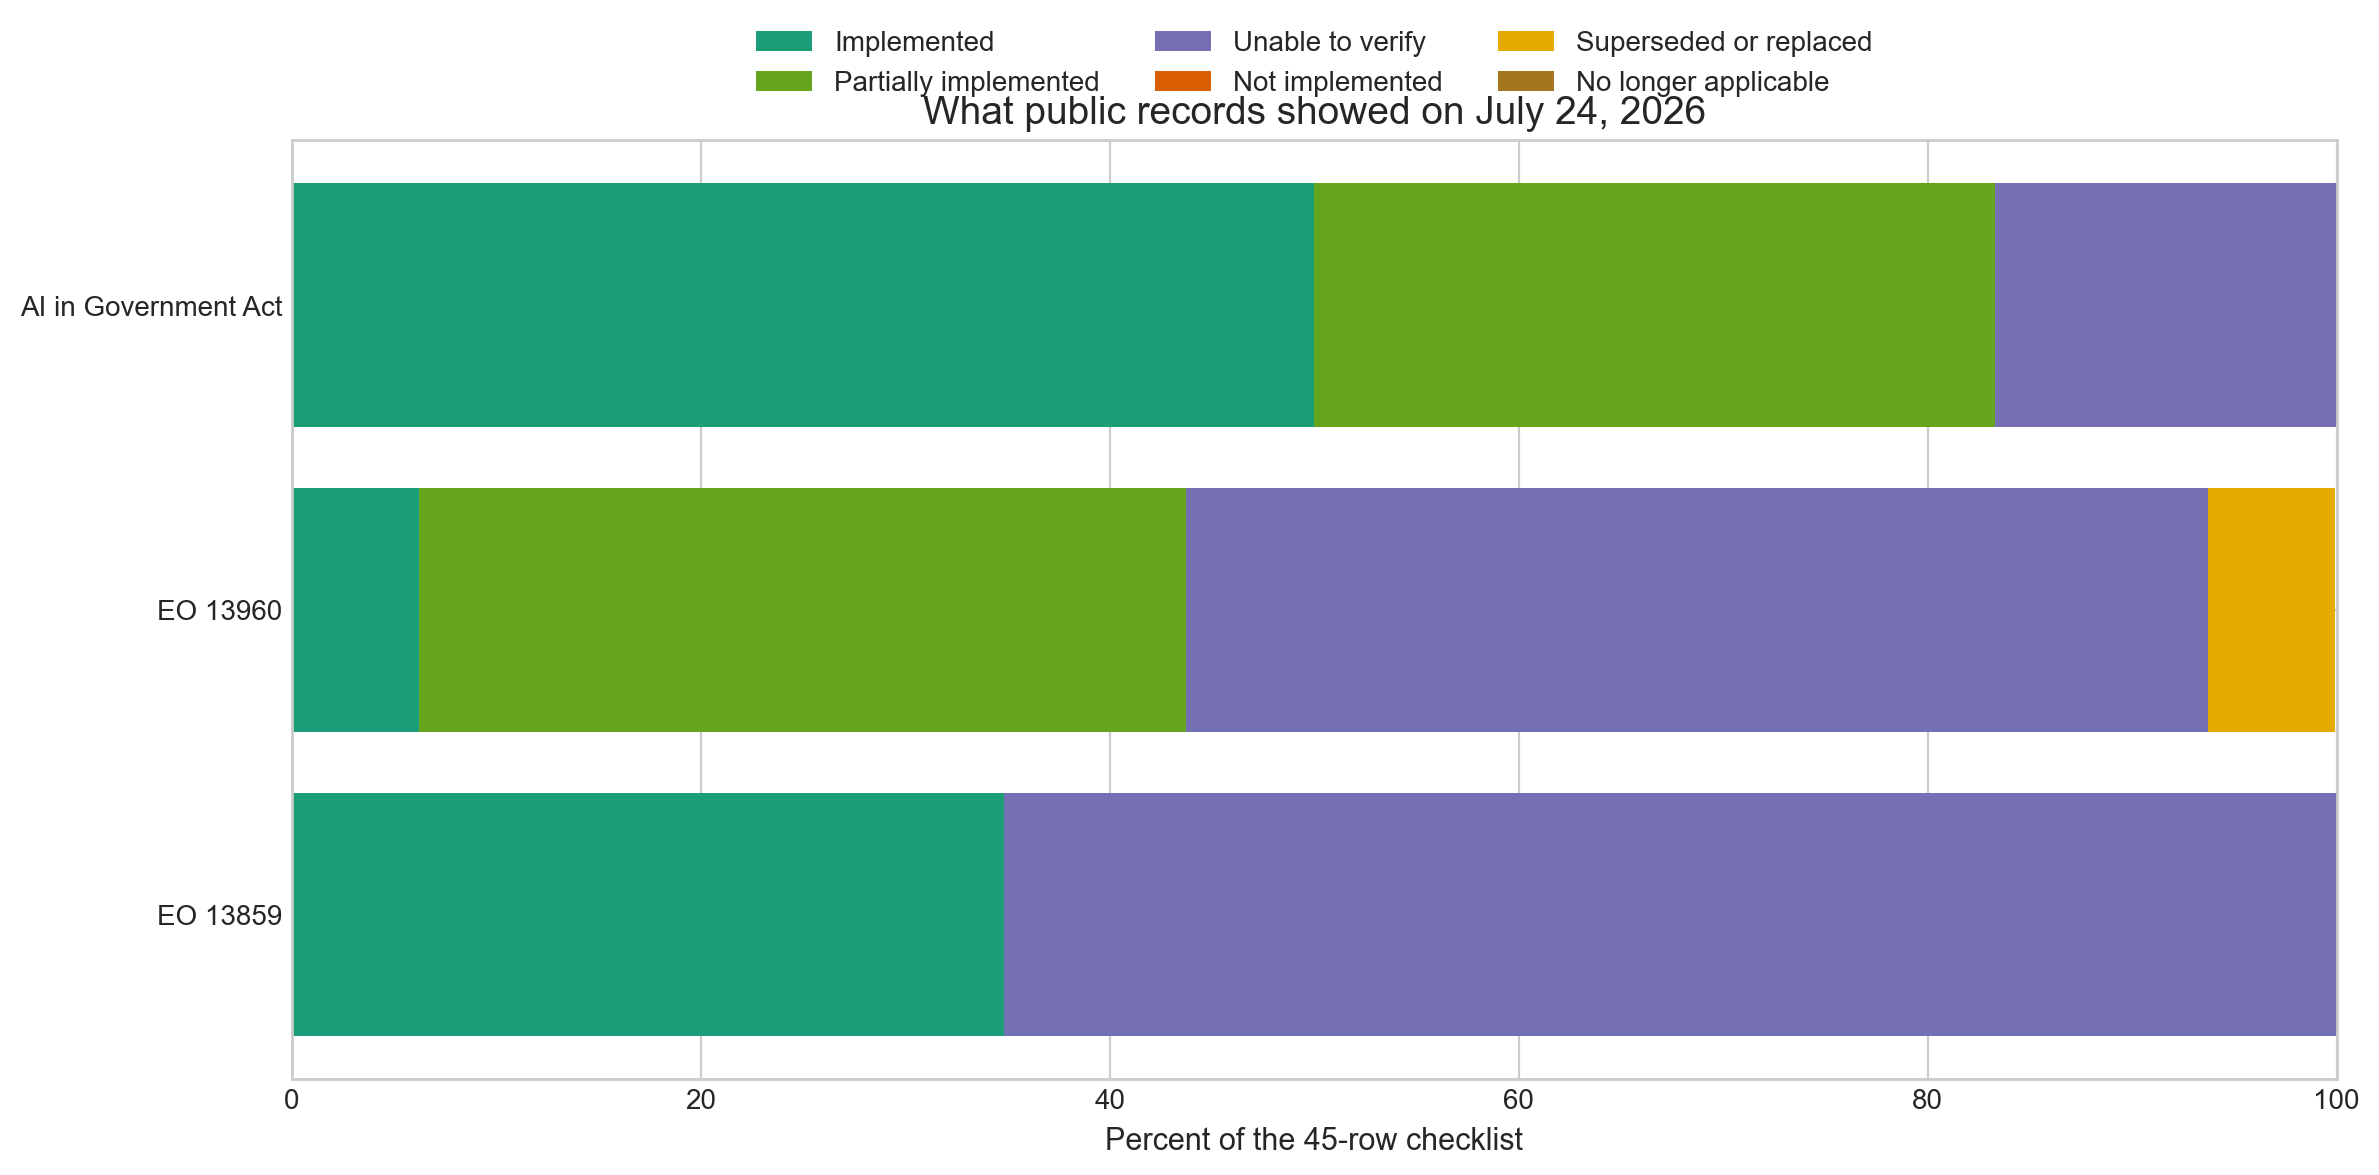
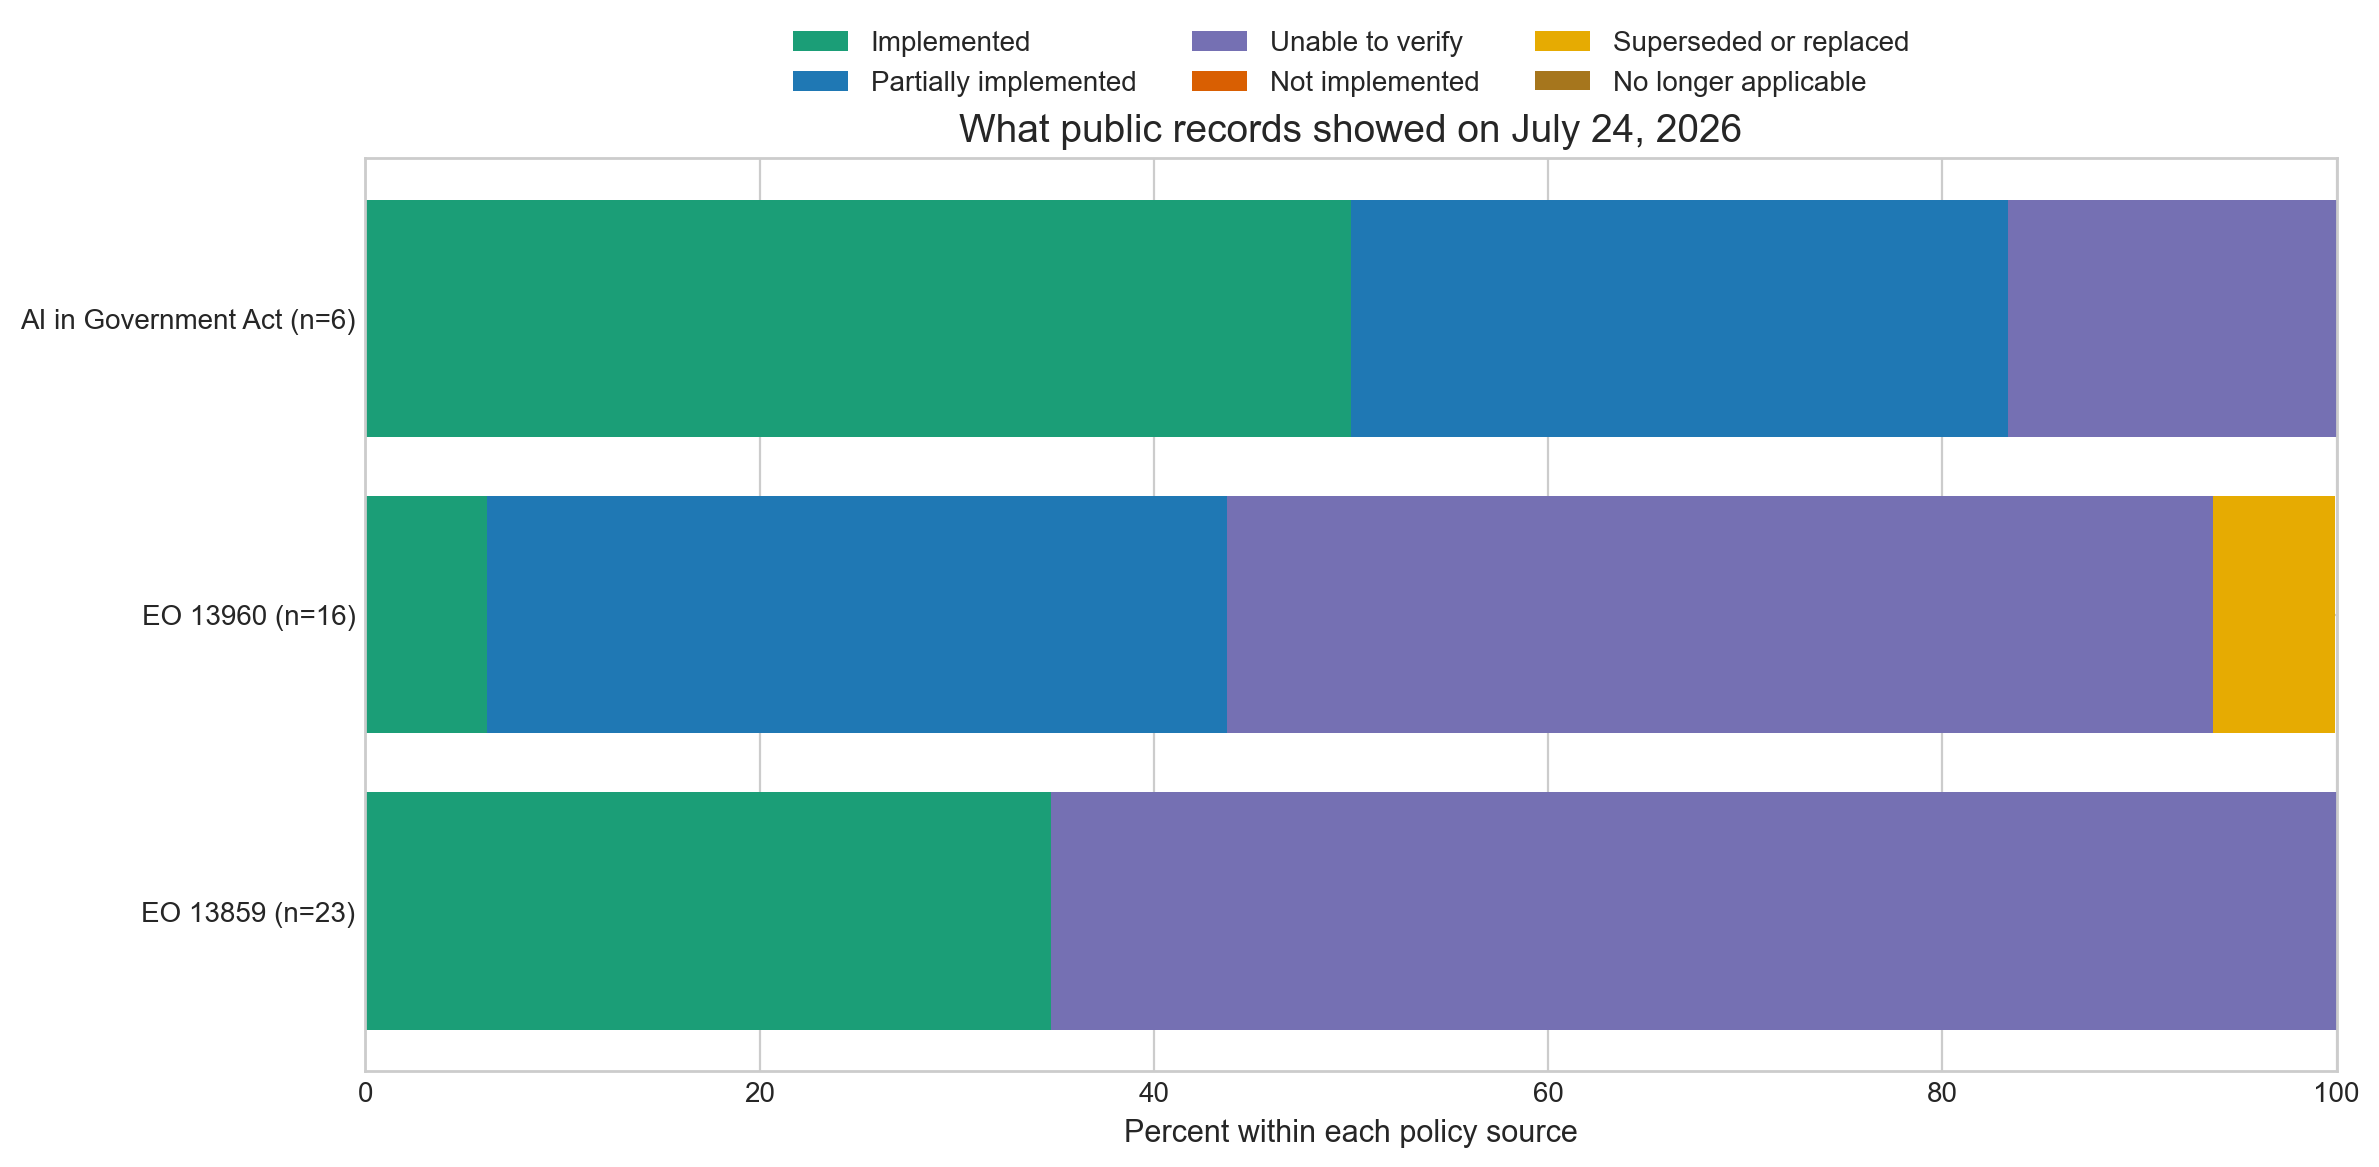
Polish README and portfolio charts

diff --git a/src/build_2026_update_artifacts.py b/src/build_2026_update_artifacts.py
@@ -23,7 +23,7 @@ CONFIDENCE_ORDER = ["High", "Medium", "Low"]
 
 STATUS_COLORS = {
     "Implemented": "#1b9e77",
-    "Partially implemented": "#66a61e",
+    "Partially implemented": "#1f78b4",
     "Unable to verify": "#7570b3",
     "Not implemented": "#d95f02",
     "Superseded or replaced": "#e6ab02",
@@ -717,12 +717,16 @@ def save_figure(output_path: Path, figure: plt.Figure) -> None:
 def plot_2026_status_summary(summary: pd.DataFrame) -> plt.Figure:
     """Plot the 2026 status summary by instrument."""
     set_plot_style()
-    figure, axis = plt.subplots()
+    figure, axis = plt.subplots(figsize=(12, 6.5))
     plot_frame = summary.loc[
         (summary["summary_basis"] == "comparable_baseline_45")
         & (summary["instrument"] != "Total")
     ].copy()
-    instruments = plot_frame["instrument"]
+    plot_frame["instrument_label"] = plot_frame.apply(
+        lambda row: f"{row['instrument']} (n={int(row['total_requirements'])})",
+        axis=1,
+    )
+    instruments = plot_frame["instrument_label"]
     cumulative = pd.Series(0, index=plot_frame.index, dtype=float)
 
     for status in UPDATE_STATUS_ORDER:
@@ -738,10 +742,15 @@ def plot_2026_status_summary(summary: pd.DataFrame) -> plt.Figure:
         cumulative += values
 
     axis.set_title(f"What public records showed on {ACCESS_DATE_LABEL}")
-    axis.set_xlabel("Percent of the 45-row checklist")
+    axis.set_xlabel("Percent within each policy source")
     axis.set_xlim(0, 100)
-    axis.legend(frameon=False, ncol=3, bbox_to_anchor=(0.5, 1.02), loc="lower center")
-    figure.tight_layout()
+    axis.legend(
+        frameon=False,
+        ncol=3,
+        bbox_to_anchor=(0.5, 1.04),
+        loc="lower center",
+    )
+    figure.tight_layout(rect=(0, 0, 1, 0.92))
     return figure
 
 

diff --git a/src/build_second_pass_recoding_artifacts.py b/src/build_second_pass_recoding_artifacts.py
@@ -24,6 +24,13 @@ SECOND_PASS_STATUS_ORDER = [
     "Excluded because deadline had not passed",
 ]
 
+SECOND_PASS_DISPLAY_LABELS = {
+    "Implemented": "Implemented",
+    "Not implemented": "Not implemented",
+    "Unknown / Unable to verify": "Unclear / unable to verify",
+    "Excluded because deadline had not passed": "Excluded (deadline not passed)",
+}
+
 PAPER_TO_SECOND_PASS_STATUS = {
     "Implemented": "Implemented",
     "Not implemented": "Not implemented",
@@ -491,7 +498,7 @@ def build_agreement_note(dataframe: pd.DataFrame) -> str:
 def plot_comparison_heatmap(crosstab: pd.DataFrame, output_path: Path) -> None:
     """Render a heatmap comparing second-pass recoding to paper appendix statuses."""
     plt.style.use("seaborn-v0_8-whitegrid")
-    figure, axis = plt.subplots(figsize=(10, 6))
+    figure, axis = plt.subplots(figsize=(11.5, 5.3))
     sns.heatmap(
         crosstab,
         annot=True,
@@ -504,6 +511,17 @@ def plot_comparison_heatmap(crosstab: pd.DataFrame, output_path: Path) -> None:
     axis.set_title("My Second Check vs the Paper\n45 Requirements")
     axis.set_xlabel("Paper's answer")
     axis.set_ylabel("My answer")
+    axis.set_xticklabels(
+        [SECOND_PASS_DISPLAY_LABELS.get(label, label) for label in crosstab.columns],
+        rotation=0,
+        ha="center",
+    )
+    axis.set_yticklabels(
+        [SECOND_PASS_DISPLAY_LABELS.get(label, label) for label in crosstab.index],
+        rotation=0,
+        va="center",
+    )
+    axis.tick_params(axis="x", pad=6)
     figure.tight_layout()
     output_path.parent.mkdir(parents=True, exist_ok=True)
     figure.savefig(output_path, dpi=200, bbox_inches="tight")

diff --git a/README.md b/README.md
@@ -12,27 +12,9 @@ The goal was not to prove that agencies failed. The goal was simpler: understand
 
 ## What this project is
 
-Think of the original paper like a long checklist.
+This project turns a long list of government AI requirements into a spreadsheet.
 
-Each requirement is one item on that checklist. My project turns that checklist into a spreadsheet, where each row is one requirement and each column answers simple questions like:
-
-- What did the government say it would do?
-- Who was supposed to do it?
-- Is there public evidence that it happened?
-
-In other words, this project is about taking legal text and turning it into something we can compare, count, and check.
-
-## Why I did it
-
-I wanted to understand how policy research works at the row-by-row level.
-
-It is easy to read a paper's headline result. It is harder, and more useful, to understand how the authors turned dozens of long legal requirements into a table of answers.
-
-This project let me practice three things at once:
-
-- reading a research paper carefully
-- turning policy text into structured data
-- checking whether public records support the final claims
+You can think of it like taking a complicated checklist and turning it into rows of data so the answers can be counted and compared. Each row asks a simple question: does the public record clearly show that this requirement was completed, not completed, or still unclear?
 
 ## What I found
 
@@ -42,31 +24,15 @@ This project let me practice three things at once:
 4. In the 2026 update, many requirements were still hard to confirm from public information.
 5. `Unable to verify` does not mean `not done`. It means I could not find enough public evidence to confirm it.
 
+The original paper marked `7` requirements as not implemented. In my second check, only `3` stayed in that category; the others looked more like cases where the public record was unclear.
+
 ## Why it matters
 
-This matters because AI governance is not just about writing rules. It is also about whether the public can see evidence that those rules were carried out.
+AI governance is not just about writing rules. It is also about whether outside people can check if those rules were carried out.
 
 A simple analogy is checking receipts after someone says a task was done. If there is no receipt, that does not automatically prove the task never happened. But it does mean an outside reviewer cannot confirm it.
 
 That is the main lesson of this project: public transparency and actual government action are not always the same thing.
-
-## How to read this project
-
-Think of the original paper as a checklist.
-
-Each row asks:
-
-- What did the government say it would do?
-- Who was responsible?
-- Was there public evidence that it happened?
-
-My project rebuilt that checklist and checked the answers.
-
-You can read the project in three parts:
-
-1. Check the paper's appendix and counts.
-2. Compare the paper's answers with my own second check.
-3. Look at newer public records from 2026 and see what is easier or harder to confirm.
 
 ## How I did it
 
@@ -77,9 +43,11 @@ You can read the project in three parts:
 5. I updated the results using newer public records.
 6. I documented where the evidence was clear and where it was not.
 
-## Main results
+I used AI tools to help organize the repo, draft code, and structure the documentation. I reviewed the coding decisions, source evidence, and final interpretation myself. AI helped with the workflow, but the project conclusions were checked by me.
 
-### First check: the paper's own appendix
+## Results and charts
+
+### 1. Checking the paper's own appendix
 
 The appendix-based baseline supports:
 
@@ -91,22 +59,20 @@ So the first important finding is simple: the paper's text says `11` implemented
 
 ![Chart showing the paper's original counts](outputs/figures/implementation_status_original.png)
 
-### Second check: my own review of the same 45 requirements
+### 2. My own second check of the same 45 requirements
 
 My second check produced:
 
 - `11` implemented
 - `3` not implemented
-- `30` unknown or unable to verify
+- `30` unclear or unable to verify
 - `1` excluded because the deadline had not passed
 
-You can think of this like two people grading the same checklist and then comparing answers. My second check matched the paper on `38 of 45` rows, which is `84.4%` agreement, with `kappa = 0.71` (`kappa` is just a common score for how much two sets of answers agree).
-
-The biggest difference is that I was more careful about calling something `not implemented` when the public record was thin. In several cases, I thought the more honest answer was: *I cannot confirm this from public records*.
+You can think of this like two people grading the same checklist and comparing answers. My second check matched the paper on `38 of 45` rows, which is `84.4%` agreement, with `kappa = 0.71`.
 
 ![Chart comparing my second check with the paper's appendix](outputs/figures/second_pass_recoding_vs_paper_appendix.png)
 
-### Third check: newer public records from July 24, 2026
+### 3. Checking newer public records from July 24, 2026
 
 When I checked newer public records, I found:
 
@@ -124,46 +90,15 @@ This should not be read as proof that agencies failed. It should be read as a ch
 
 ![Chart showing how rows changed between the original baseline and the 2026 update](outputs/figures/status_change_matrix.png)
 
-## Simple interpretation
+## Limitations
 
-Here is the short version:
+This project uses public documents, not internal government records.
 
-- The paper's main idea holds up: many AI governance requirements are hard to verify from public records.
-- But the exact counts depend on how strict you are about evidence.
-- My second check suggests some rows marked `not implemented` are better described as `unclear from public records`.
-- Even by July 2026, many requirements were still hard to confirm from public information.
+That makes it useful for studying transparency, but it may miss work that happened behind the scenes.
 
-## Limits of this project
+So if a row says `unable to verify`, that does not mean the work definitely was not done. It only means I could not confirm it from the public record I reviewed.
 
-This project is based on public documents, not internal government records.
-
-That means it is good for studying transparency, but it may miss work that happened behind the scenes.
-
-So if a row says `unable to verify`, that does **not** mean the work definitely was not done. It only means I could not confirm it from the public record I reviewed.
-
-## Where to look next
-
-If you want the main data files, start here:
-
-- `data/raw/original_requirements.csv`
-- `data/processed/original_second_pass_recoding.csv`
-- `data/processed/requirements_coded_2026.csv`
-- `data/processed/row_audit_2026.csv`
-- `data/processed/summary_stats.md`
-
-If you want the longer write-up, read:
-
-- `report/policy_replication_report.md`
-
-If you want field-by-field descriptions of the datasets, read:
-
-- `data/data_dictionary.md`
-
-## Method transparency
-
-I used AI tools to help organize the repo, draft code, and structure the documentation. I reviewed the coding decisions, source evidence, and final interpretation myself. AI helped with the workflow, but the project conclusions were checked by me.
-
-## How to reproduce the files
+## How to reproduce
 
 1. Install the Python packages in `requirements.txt`.
 2. Rebuild the paper's checklist and original counts:
@@ -195,3 +130,15 @@ python src/build_row_audit_2026.py
 ```bash
 python src/build_summary_stats.py
 ```
+
+## Files
+
+Start with these files if you want to explore the project:
+
+- `data/raw/original_requirements.csv`
+- `data/processed/original_second_pass_recoding.csv`
+- `data/processed/requirements_coded_2026.csv`
+- `data/processed/row_audit_2026.csv`
+- `data/processed/summary_stats.md`
+- `report/policy_replication_report.md`
+- `data/data_dictionary.md`
